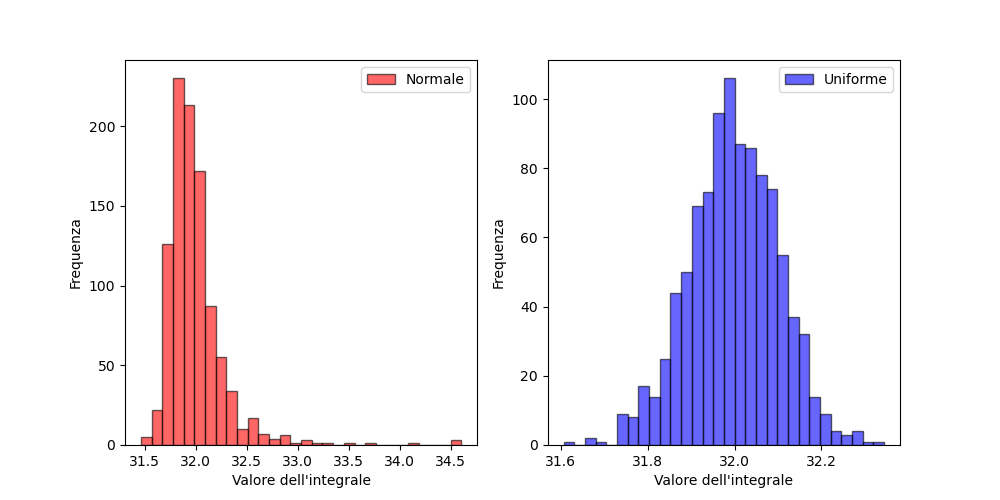
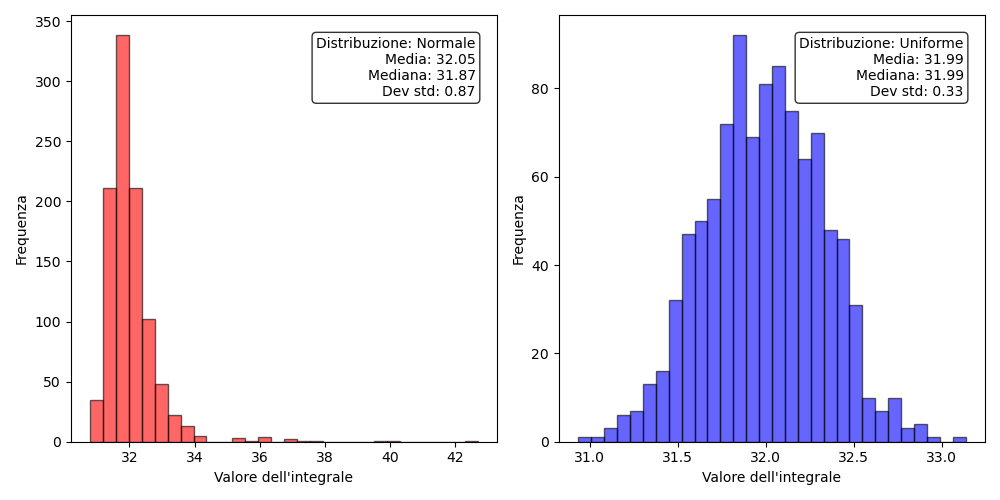
Sistemato MC

diff --git a/Riccardo_Bossi/lez 3/MC_integration.py b/Riccardo_Bossi/lez 3/MC_integration.py
@@ -10,7 +10,7 @@ sigma_norm = 1 #sigma gaussina norm
 def function(x, sigma):  # Funzione da integrare
     return x**3 * np.exp(-(x**2) / (2 * sigma**2))
 
-N_max = 1000 #numero di punti per l'integrazione
+N_max = 10000 #numero di punti per l'integrazione
 
 x_max = 5*sigma # max integrazione
 x_min = 0 # min integrazione
@@ -59,40 +59,19 @@ for N in range(N_max):
     #print ("Il risultato dell'integrale con gen uniforme è:" , integral_uni )
     #print ("Il valore corretto è:" , 2*sigma**4)
 
+plt.figure(figsize=(10, 5))
+plt.xscale('log')
+plt.plot(number, area_norm, label = "importance sampling")
+plt.plot(number, area_uni, label ="uniform sampling")
+plt.xlabel("point for integral")
+plt.ylabel("value")
+plt.axhline(y=2 * sigma**4, color='black', linestyle='-', linewidth=1, label ="true values")
+plt.legend() 
 
-plt.scatter(number,area_uni)
-plt.scatter(number, area_norm)
-#METTI ASSE X LOGARITMICO E IMPLEMENTA CIO CHE SOTTO è ARANCIONE
 plt.show()
 
 
 
-"""" plot dei punti
-plt.errorbar(pos, area_norm, yerr=errore_rel_norm, fmt='o', color='red', label='Normale', capsize=5)
-plt.errorbar(pos, area_uni, yerr=errore_rel_uni, fmt='x', color='blue', label='Uniforme', capsize=5)
-
-plt.plot(pos, area_norm, color='red', linewidth=0.5, label = "aree da dist normale")  # Linea sottile rossa
-plt.plot(pos, area_uni, color='blue', linewidth=0.5, label = "aree da dist uniform")  # Linea sottile blu
- 
-pip 
-plt.axhline(y=2 * sigma**4, color='black', linestyle='-', linewidth=2)  
-
-import numpy as np
-from matplotlib import pyplot as plt
-from scipy.optimize import curve_fit
-from scipy.stats import norm
-
-mu = 3.4  #centroide gaussiana, ricavata dal grafico della funzione
-sigma = 2 # sigma funzione
-sigma_norm = 1 #sigma gaussina norm
-
-def function(x, sigma):  # Funzione da integrare
-    return x**3 * np.exp(-(x**2) / (2 * sigma**2))
-
-N = 10000 #numero di punti per l'integrazione
-
-x_max = 5*sigma # max integrazione
-x_min = 0 # min integrazione
 
 ripetizioni = 1000
 
@@ -132,23 +111,43 @@ for i in range(ripetizioni):
     #print ("Il valore corretto è:" , 2*sigma**4)
 
 
+mean_norm = np.mean(area_norm)
+median_norm = np.median(area_norm)
+std_norm = np.std(area_norm)
+
+mean_uni = np.mean(area_uni)
+median_uni = np.median(area_uni)
+std_uni = np.std(area_uni)
+
 plt.figure(figsize=(10, 5))
 
-# istogramma per le aree calcolate con distribuzione normale
+# Istogramma per la distribuzione normale
 plt.subplot(1,2,1)
-plt.hist(area_norm, bins=30, color='red', alpha=0.6, label='Normale', edgecolor='black')
+plt.hist(area_norm, bins=30, color='red', alpha=0.6, edgecolor='black')
 plt.xlabel("Valore dell'integrale")
 plt.ylabel("Frequenza")
-plt.legend()
+# Aggiungi testo con le statistiche
+plt.text(0.95, 0.95, 
+          f"Distribuzione: Normale\nMedia: {mean_norm:.2f}\nMediana: {median_norm:.2f}\nDev std: {std_norm:.2f}",
+         transform=plt.gca().transAxes,
+         verticalalignment='top',
+         horizontalalignment='right',
+         fontsize=10,
+         bbox=dict(boxstyle="round", facecolor="white", alpha=0.8))
 
-# istogramma per le aree calcolate con distribuzione uniforme
+# Istogramma per la distribuzione uniforme
 plt.subplot(1,2,2)
 plt.hist(area_uni, bins=30, color='blue', alpha=0.6, label='Uniforme', edgecolor='black')
 plt.xlabel("Valore dell'integrale")
 plt.ylabel("Frequenza")
-plt.legend()
+# Aggiungi testo con le statistiche
+plt.text(0.95, 0.95, 
+        f"Distribuzione: Uniforme\nMedia: {mean_uni:.2f}\nMediana: {median_uni:.2f}\nDev std: {std_uni:.2f}",
+         transform=plt.gca().transAxes,
+         verticalalignment='top',
+         horizontalalignment='right',
+         fontsize=10,
+         bbox=dict(boxstyle="round", facecolor="white", alpha=0.8))
 
+plt.tight_layout()
 plt.show()
-
-
-"""
